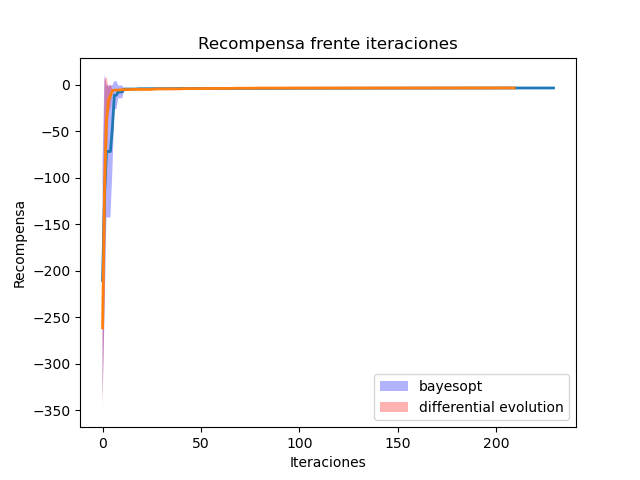
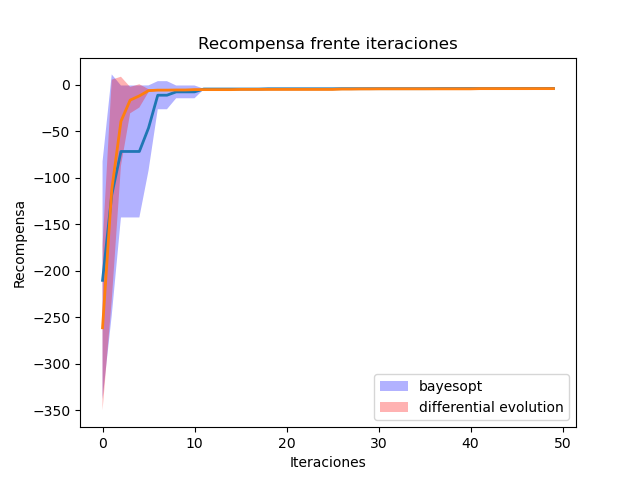
Graficas definitivas para evitacion de un obstaculo.

diff --git a/print_graph.py b/print_graph.py
@@ -5,7 +5,7 @@ import scipy.stats as sp
 
 TASK_DIR = "avoid_obstacle/"
 TASK_NAME = "avoid_obstacle"
-VARIATION = "cartesianas"
+VARIATION = "esfericas"
 
 file1 = TASK_DIR + "listas_bayesopt_" + TASK_NAME + "_" + VARIATION + ".p"
 resultados1 = pickle.load(open(file1, "rb"))
@@ -42,10 +42,10 @@ for resultado in lista_de_resultados:
     n, it = range(res.shape[0]), range(res.shape[1])
     t_limits = sp.t.interval(0.95, n_experimentos) / np.sqrt(n_experimentos)
 
-    # res = res[0:300]
-    # res_mean = res_mean[0:300]
-    # res_std = res_std[0:300]
-    # it = it[0:300]
+    res = res[0:50]
+    res_mean = res_mean[0:50]
+    res_std = res_std[0:50]
+    it = it[0:50]
 
     plt.plot(it, res_mean, linewidth=2, label=None)
     plt.fill(np.concatenate([it, it[::-1]]),
